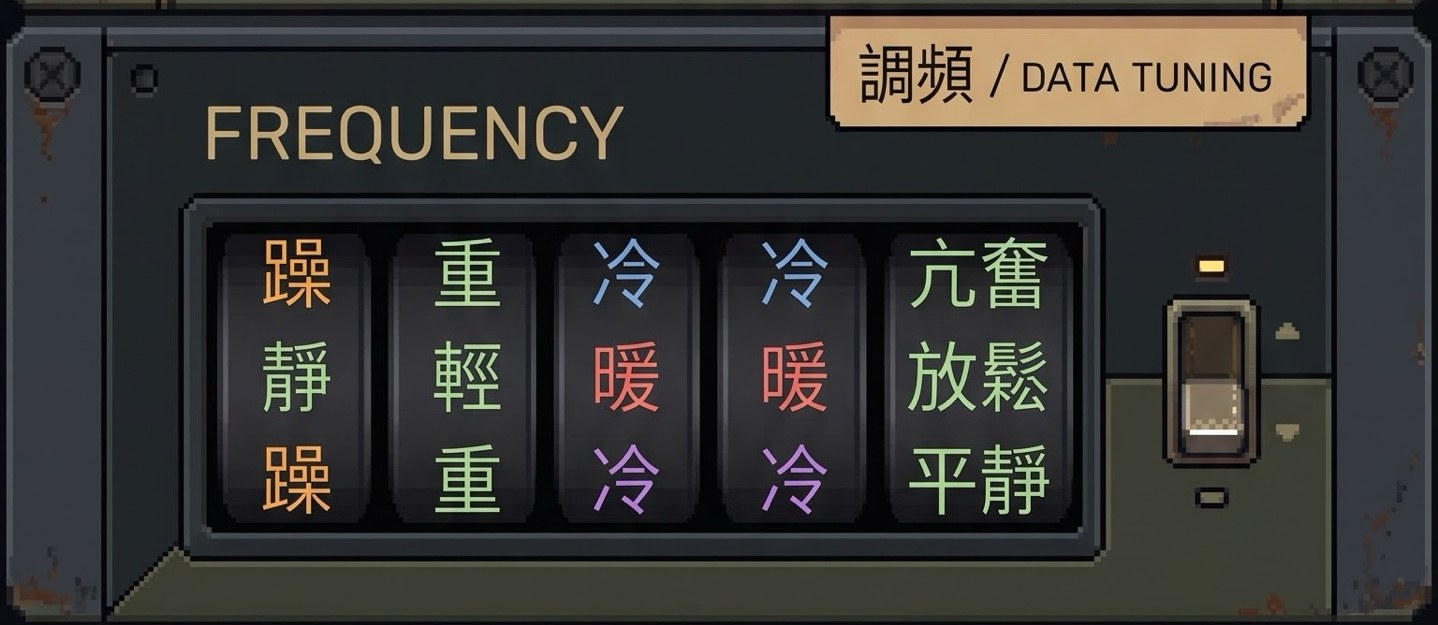
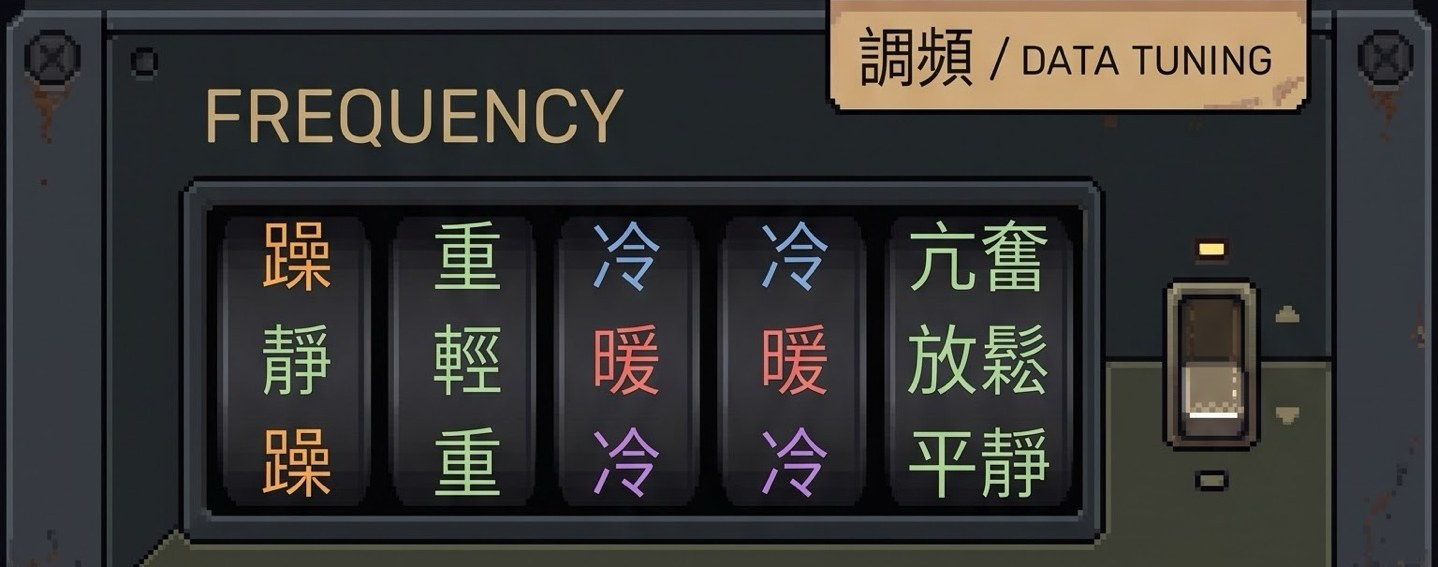
頻率選歌版面：FREQUENCY 壓矮、按鍵縮短；dip-tune.js 版本號 v=2 換掉舊快取
Claude-Session: https://claude.ai/code/session_01UejPgVKn9qYya3Wx6LrffZ

diff --git a/dip-tune.js b/dip-tune.js
@@ -113,26 +113,26 @@
 @media (orientation:landscape) and (max-height:600px){.tune-console{width:min(100%,calc((100dvh - 24px) / 0.86))}}
 .tune-mod{position:relative;background-size:100% 100%;background-repeat:no-repeat;image-rendering:pixelated}
 .tune-row1{display:flex;gap:2cqw;align-items:stretch}
-.tune-mod-freq{width:76%;flex:none;aspect-ratio:1438/625;background-image:url(tune/panel-freq.jpg)}
+.tune-mod-freq{width:76%;flex:none;aspect-ratio:1438/499;background-image:url(tune/panel-freq.jpg)}
 .tune-mod-wheels{width:100%;aspect-ratio:1438/983;background-image:url(tune/panel-wheels.jpg)}
 .tune-btncol{flex:1 1 0;min-width:0;display:grid;place-items:center;padding:1cqw 0}
 .tune-draw{height:100%;max-width:100%;aspect-ratio:168/358;background:url(tune/btn-v.png) center/100% 100% no-repeat;image-rendering:pixelated;border:0;padding:0;cursor:pointer;writing-mode:vertical-rl;text-orientation:upright;font-family:var(--pix);font-size:5cqw;letter-spacing:.3em;color:#2a1e07;text-shadow:.15cqw .15cqw 0 rgba(255,236,170,.55);display:grid;place-items:center}
 .tune-draw:active{transform:translateY(.4cqw);filter:brightness(1.08)}
 .tune-draw[disabled]{opacity:.55;cursor:default}
 .tune-console .abs{position:absolute}
-.tune-drumwin{left:14.26%;top:35.5%;width:61.2%;height:49.6%;background:#0d0f0d;display:flex;gap:1.1cqw;padding:1.2cqw 1.3cqw;align-items:stretch}
+.tune-drumwin{left:14.26%;top:36.2%;width:61.2%;height:54.7%;background:#0d0f0d;display:flex;gap:1.1cqw;padding:1.2cqw 1.3cqw;align-items:stretch}
 .tune-drum{position:relative;flex:1 1 0;overflow:hidden;background:linear-gradient(180deg,#000 0,#2b2f2a 30%,#3a3f38 50%,#2b2f2a 70%,#000 100%);box-shadow:inset 0 0 0 .3cqw #000}
 .tune-drum.wide{flex:2.3 1 0}
 .tune-drum .strip{transition:transform .5s cubic-bezier(.25,.9,.3,1.08)}
-.tune-drum span{display:block;height:4.95cqw;line-height:4.95cqw;text-align:center;font-family:var(--pix);font-size:3.6cqw;color:var(--w,#e9e2c8);text-shadow:0 0 1cqw var(--w,#e9e2c8)}
-.tune-drum.wide span{font-size:3.1cqw;letter-spacing:.2em;padding-left:.2em}
+.tune-drum span{display:block;height:4cqw;line-height:4cqw;text-align:center;font-family:var(--pix);font-size:3cqw;color:var(--w,#e9e2c8);text-shadow:0 0 1cqw var(--w,#e9e2c8)}
+.tune-drum.wide span{font-size:2.6cqw;letter-spacing:.2em;padding-left:.2em}
 .tune-drum::after{content:"";position:absolute;inset:0;background:linear-gradient(180deg,rgba(0,0,0,.85) 0,rgba(0,0,0,.35) 30%,transparent 40%,transparent 60%,rgba(0,0,0,.35) 70%,rgba(0,0,0,.85) 100%);pointer-events:none}
-.tune-sw{left:80.7%;top:39.5%;width:7.6%;height:44%;background:transparent;border:0;cursor:pointer;padding:0}
+.tune-sw{left:80.7%;top:40.6%;width:7.6%;height:48.5%;background:transparent;border:0;cursor:pointer;padding:0}
 .tune-swlab{left:77%;width:15%;text-align:center;font-family:var(--pix);font-size:1.9cqw;letter-spacing:.1em;color:#8d9478;pointer-events:none}
-.tune-swlab.top{top:28%}.tune-swlab.bot{top:84%}
+.tune-swlab.top{top:29%}.tune-swlab.bot{top:90.8%}
 .tune-swlab.on{color:#ffd34d;text-shadow:0 0 .8cqw #ffd34d}
-.tune-led{left:83.3%;width:1.8%;height:2.56%;background:#2b2a1f;pointer-events:none}
-.tune-led.top{top:41.3%}.tune-led.bot{top:79%}
+.tune-led{left:83.3%;width:1.8%;height:2.8%;background:#2b2a1f;pointer-events:none}
+.tune-led.top{top:42.5%}.tune-led.bot{top:84.1%}
 .tune-led.on{background:#ffd34d;box-shadow:0 0 .8cqw #ffd34d}
 .tune-wheel{background:transparent;cursor:ns-resize;touch-action:none;overflow:hidden;top:15.36%;height:54.5%}
 .tune-wheel canvas{display:block;width:100%;height:100%;image-rendering:pixelated}

diff --git a/index.html b/index.html
@@ -1070,7 +1070,7 @@
 <script src="dip-player.js?v=49"></script>
 <script src="dip-draw-anim.js?v=4"></script>
 <script src="dip-genre-tree.js?v=5"></script>
-<script src="dip-tune.js?v=1"></script>
+<script src="dip-tune.js?v=2"></script>
 <script src="dip-artist-intro.js?v=2"></script>
 <script type="module">
   import { initializeApp } from "https://www.gstatic.com/firebasejs/10.12.0/firebase-app.js";

diff --git a/PROJECT_MEMORY.md b/PROJECT_MEMORY.md
@@ -1,5 +1,11 @@
 # dip vinyl 專案備忘錄
 
+### 2026-10-21｜dip-vinyl-shop｜頻率選歌版面：FREQUENCY 壓矮、按鍵縮短；`dip-tune.js?v=2` 換掉舊快取
+
+- **改動**：店主回報合併 #107 後版面沒換——`index.html` 還載 `dip-tune.js?v=1`，瀏覽器與 service worker 的執行期快取沿用舊檔；版本號改 `?v=2`。FREQUENCY 模組依店主指示「上下縮、寬不變」：模組圖改緊裁（原稿 y 985–1552）再把高度壓到 88%（aspect 1438/499），滾筒字跟著縮；右側黃銅「就這張」隨列高自動縮短。
+- **主要檔案**：`dip-tune.js`、`index.html`、`tune/panel-freq.jpg`
+- **驗證**：本機 Playwright iPhone 14／SE 整台在畫面內、0 錯誤。
+
 ### 2026-10-21｜dip-vinyl-shop｜頻率選歌熱修：座標改用 id 雜湊對卡，不再靠 seed 順序
 
 - **改動**：上線當天店主手機開到「情緒座標與卡池版本不一致，資料更新中」。原因：`sw.js` 對同源 JSON 走快取優先，店主瀏覽器裡的 `seed_cards.json` 還是舊版（卡池修正前 19,121 張），與前台檔的 `_seed` 綁定（張數、首尾 id）對不上就整檔失效。改法：`build-card-moods.mjs` 多存每張 id 的 FNV-1a 雜湊 `_h`（檔案 302KB→502KB，gz 66KB→169KB），`dip-tune.js` 不再抓 seed、用雜湊對卡池物件；舊快取的 seed 或還沒評分的新卡只是對不到被跳過。
